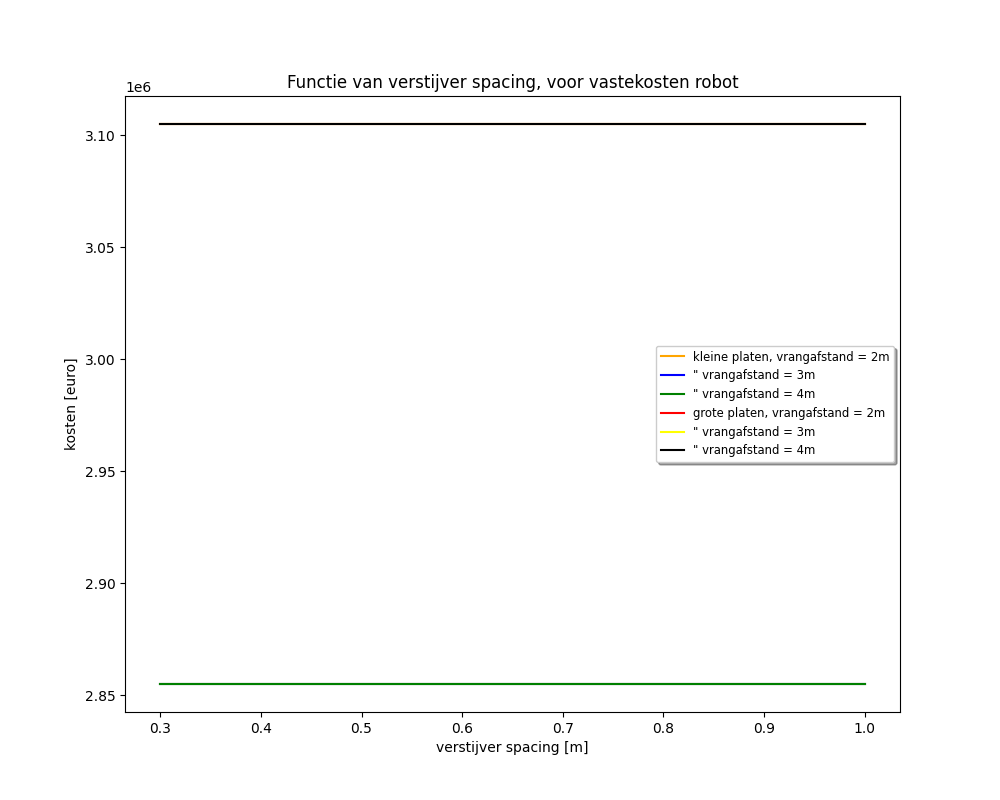
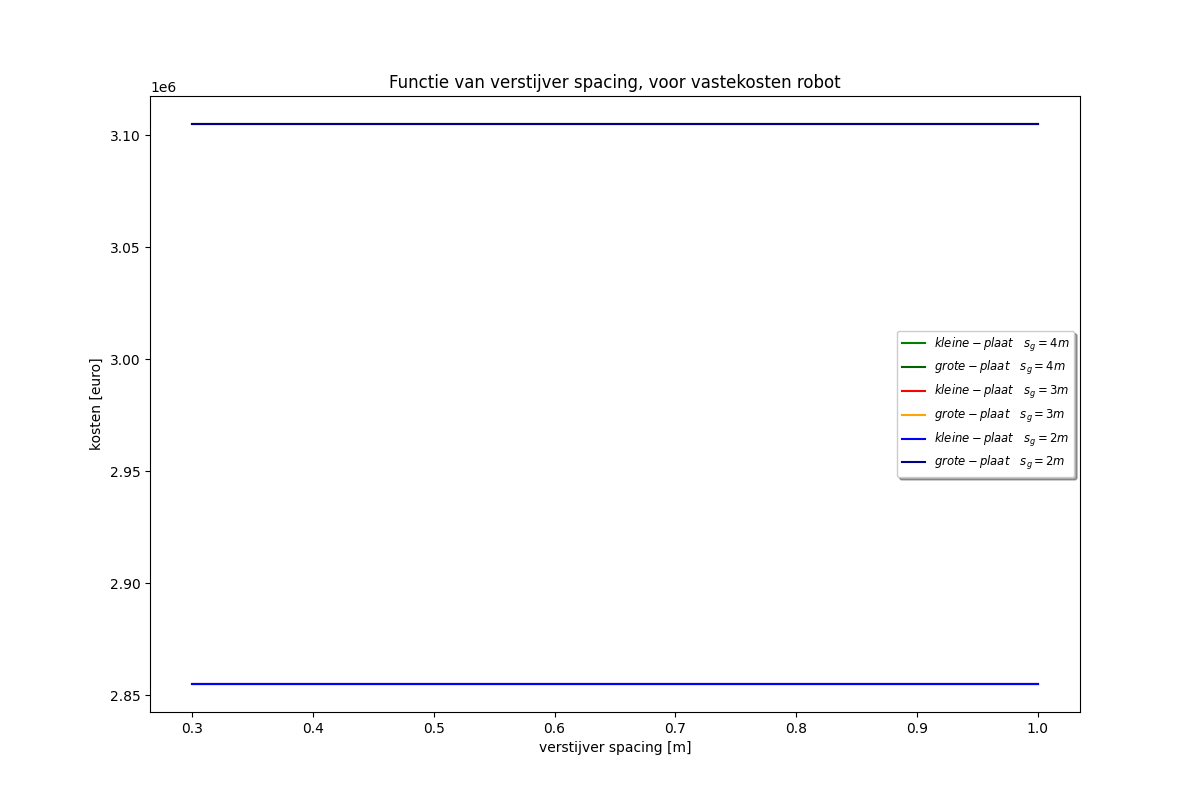
bam

diff --git a/construeren/plaatproductie/herkansing.py b/construeren/plaatproductie/herkansing.py
@@ -2,18 +2,18 @@ import matplotlib.pyplot as plt
 import numpy as np
 import math as m
 
-ss = np.linspace(0.3,1.0,num=500)
+ss = np.linspace(0.3,1.0,701)
 groepsnummer = 2
 station  = 5
 uren = 8
-A_bulb = 0.001780
 n_perstation= 3 #aantal pesonen  
 T = 8
 Ks = 1.2
 rho = 1025
 g = 9.81
 p = T *g *rho
-sigma_y = 355E6
+rho_plaat = 7800
+sigma_y = 305E6
 tp_form = ss*np.sqrt((p*Ks)/(2*sigma_y))
 tp = np.zeros(len(tp_form))
 
@@ -29,19 +29,27 @@ Bp = 12
 bp = 3
 Lp= 12
 A= 144
-hvrang = 1.25
-hspant = 0.16
 capaciteit = 22500 + 4/3* 17280
+tws = 0.005
+twg = 0.005
 
 
 class totaal():
 
     def klein_hand(sg):
+        hspant = (6*0.5/2+300.5/2)*((p*ss*sg*2*Ks)/(12*sigma_y*tws))**0.5 /1000
+
+        Mb = p*sg*bp**2/12
+        Fs = p*sg*bp/2
+
+
+        hvrang = np.sqrt(3/2)*np.sqrt(Mb * 1.2/(sigma_y*twg))
+        A_bulb = 0.40824829 * np.sqrt(Mb*twg*1.2/(sigma_y))
         nzaathout = 4
         aantal_jaar = capaciteit/A 
         nplaat = Bp/bp
         nlas = nplaat -1
-        nspant = Bp/ss-nzaathout -1
+        nspant = np.int64(Bp/ss-nzaathout -1)
         nvrang = Lp/sg
         nkruising = nvrang*(nspant+nzaathout)
         Llas_plaat = nlas*Lp     
@@ -51,9 +59,23 @@ class totaal():
         Llas_vrang_verti = hvrang*nkruising*4 +nspant*hspant*2
         Llas = Llas_plaat + Llas_spant + Llas_vrang_hori + Llas_zaathout + Llas_vrang_verti
 
-        materiaal = 35521200*tp + 3415500/sg + 355212000*A_bulb/ss-118404000*A_bulb+1138500+3900*tp*Llas
+        m_plaat = Lp * Bp * tp*rho_plaat 
+        m_z = nzaathout*Lp*75
+        m_s = nspant*Lp*A_bulb*rho_plaat
+        m_g = nvrang*Bp*75
+        m_totaal = m_plaat+m_z+m_s+m_g
+        materiaal = aantal_jaar*m_totaal
+        
+        x = nplaat-1 + 2
+        y = Llas_plaat/14400
+        z1 = (Llas_vrang_verti/1.2 +(Llas_vrang_hori+Llas_zaathout+Llas_spant)/2)
+        z2 = ((7.8*5**2)/2000)
+        z = 1/0.35*(z1*z2)
+        x1 = (nspant)
+        y1 = 4*(nvrang+nzaathout)
 
-        urenpplaat = nplaat + 2 + 1/0.35*(Llas_plaat/15 +(Llas_vrang_verti/1.2 +(Llas_vrang_hori+Llas_zaathout+Llas_spant)/2)*(7.8*tpmm**2/2000) )+0.5*(nspant)+4*(nvrang+nzaathout)
+
+        urenpplaat = x + y + z +x1+ y1
         personeel = aantal_jaar*50* urenpplaat
 
         nplek = np.int32((urenpplaat*aantal_jaar)/2000)
@@ -65,6 +87,14 @@ class totaal():
         return totaal, materiaal, personeel, vastekosten
 
     def groot_hand(sg):
+        hspant = (6*0.5/2+300.5/2)*((p*ss*sg*2*Ks)/(12*sigma_y*tws))**0.5 /1000
+
+        Mb = p*sg*bp**2/12
+        Fs = p*sg*bp/2
+
+
+        hvrang = np.sqrt(3/2)*np.sqrt(Mb * 1.2/(sigma_y*twg))
+        A_bulb = 0.40824829 * np.sqrt(Mb*twg*1.2/(sigma_y))
         nzaathout = 8
         aantal_jaar = capaciteit/(2*A) 
         nplaat = 2*Bp/bp
@@ -79,9 +109,14 @@ class totaal():
         Llas_vrang_verti = hvrang*nkruising*4 +nspant*hspant*2
         Llas = Llas_plaat + Llas_spant + Llas_vrang_hori + Llas_zaathout + Llas_vrang_verti
 
-        materiaal = 35521200*tp + 3415500/sg + 355212000*A_bulb/ss-118404000*A_bulb+1138500+3900*tp*Llas
+        m_plaat = 2*Lp * Bp * tp*rho_plaat 
+        m_z = nzaathout*2*Lp*75
+        m_s = nspant*2*Lp*A_bulb*rho_plaat
+        m_g = nvrang*Bp*75
+        m_totaal = m_plaat+m_z+m_s+m_g
+        materiaal = aantal_jaar*m_totaal
 
-        urenpplaat = nplaat + 2 + 1/0.35*(Llas_plaat/15 +(Llas_vrang_verti/1.2 +(Llas_vrang_hori+Llas_zaathout+Llas_spant)/2)*(7.8*tpmm**2/2000) )+0.5*(nspant)+8*(nvrang+nzaathout)
+        urenpplaat = nplaat-1 + 2 + Llas_plaat/14400 + 1/0.35*((Llas_vrang_verti/1.2 +(Llas_vrang_hori+Llas_zaathout+Llas_spant)/2)*(7.8*5**2/2000) )+(nspant)+8*(nvrang+nzaathout)
 
         personeel = aantal_jaar*50*urenpplaat
 
@@ -94,6 +129,14 @@ class totaal():
         return totaal, materiaal, personeel, vastekosten
 
     def klein_robot(sg):
+        hspant = (6*0.5/2+300.5/2)*((p*ss*sg*2*Ks)/(12*sigma_y*tws))**0.5
+
+        Mb = p*sg*bp**2/12
+        Fs = p*sg*bp/2
+
+
+        hvrang = np.sqrt(3/2)*np.sqrt(Mb * 1.2/(sigma_y*twg))
+        A_bulb = 0.40824829 * np.sqrt(Mb*twg*1.2/(sigma_y))
         nzaathout = 4
         aantal_jaar = capaciteit/A 
         nplaat = Bp/bp
@@ -107,17 +150,30 @@ class totaal():
         Llas_zaathout = nzaathout*Lp*2   
         Llas_vrang_verti = hvrang*nkruising*4 +nspant*hspant*2
         Llas = Llas_plaat + Llas_spant + Llas_vrang_hori + Llas_zaathout + Llas_vrang_verti
+        
+        m_plaat = Lp * Bp * tp*rho_plaat 
+        m_z = nzaathout*Lp*75
+        m_s = nspant*Lp*A_bulb*rho_plaat
+        m_g = nvrang*Bp*75
+        m_totaal = m_plaat+m_z+m_s+m_g
+        materiaal = aantal_jaar*m_totaal
 
-        materiaal = 35521200*tp + 3415500/sg + 355212000*A_bulb/ss-118404000*A_bulb+1138500+3900*tp*Llas
-
-        urenpplaat = 1/0.6*(((Llas_zaathout/2+Llas_vrang_verti/1.2+Llas_vrang_hori/2)*7.8*tpmm**2)/4000) +2*(nvrang+nzaathout)
-        personeel = aantal_jaar*90*3/5*urenpplaat
+        urenpplaat = 5*((Llas_vrang_verti/1.2 +(Llas_vrang_hori+Llas_zaathout+Llas_spant)/2)*(7.8*5**2/2000) )/4 +2*(nvrang+nzaathout)
+        personeel = aantal_jaar*90*urenpplaat
         loods = 1500
-        vastekosten = 70*loods +275000*10
+        vastekosten = 70*loods +275000*10*ss/ss
         totaal = materiaal + personeel + vastekosten 
         return totaal, materiaal, personeel, vastekosten
 
     def groot_robot(sg):
+        hspant = (6*0.5/2+300.5/2)*((p*ss*sg*2*Ks)/(12*sigma_y*tws))**0.5
+
+        Mb = p*sg*bp**2/12
+        Fs = p*sg*bp/2
+
+
+        hvrang = np.sqrt(3/2)*np.sqrt(Mb * 1.2/(sigma_y*twg))
+        A_bulb = 0.40824829 * np.sqrt(Mb*twg*1.2/(sigma_y))
         nzaathout = 8
         aantal_jaar = capaciteit/(2*A) 
         nplaat = 2*Bp/bp
@@ -132,12 +188,17 @@ class totaal():
         Llas_vrang_verti = hvrang*nkruising*4 +nspant*hspant*2
         Llas = Llas_plaat + Llas_spant + Llas_vrang_hori + Llas_zaathout + Llas_vrang_verti
 
-        materiaal = 35521200*tp + 3415500/sg + 355212000*A_bulb/ss-118404000*A_bulb+1138500+3900*tp*Llas
-
-        urenpplaat = 1/0.6*(((Llas_zaathout/2+Llas_vrang_verti/1.2+Llas_vrang_hori/2)*7.8*tpmm**2)/4000) +4*(nvrang+nzaathout)
-        personeel = aantal_jaar*90*3/5*urenpplaat
+        m_plaat = 2*Lp * Bp * tp*rho_plaat 
+        m_z = nzaathout*2*Lp*75
+        m_s = nspant*2*Lp*A_bulb*rho_plaat
+        m_g = nvrang*Bp*75
+        m_totaal = m_plaat+m_z+m_s+m_g
+        materiaal = aantal_jaar*m_totaal
+        
+        urenpplaat = 5*((Llas_vrang_verti/1.2 +(Llas_vrang_hori+Llas_zaathout+Llas_spant)/2)*(7.8*5**2/2000) )/4 +4*(nvrang+nzaathout)
+        personeel = aantal_jaar*90*urenpplaat
         loods = 1500
-        vastekosten = 70*loods +300000*10
+        vastekosten = 70*loods +300000*10*ss/ss
 
         totaal = materiaal + personeel + vastekosten 
         return totaal, materiaal, personeel, vastekosten
@@ -152,6 +213,17 @@ g_h_3_tot, g_h_3_mat,g_h_3_per,g_h_3_vast = totaal.groot_hand(3)
 k_h_2_tot, k_h_2_mat,k_h_2_per,k_h_2_vast = totaal.klein_hand(2)
 g_h_2_tot, g_h_2_mat,g_h_2_per,g_h_2_vast = totaal.groot_hand(2)
 
+k_r_4_tot, k_r_4_mat,k_r_4_per,k_r_4_vast = totaal.klein_robot(4)
+g_r_4_tot, g_r_4_mat,g_r_4_per,g_r_4_vast = totaal.groot_robot(4)
+
+k_r_3_tot, k_r_3_mat,k_r_3_per,k_r_3_vast = totaal.klein_robot(3)
+g_r_3_tot, g_r_3_mat,g_r_3_per,g_r_3_vast = totaal.groot_robot(3)
+
+k_r_2_tot, k_r_2_mat,k_r_2_per,k_r_2_vast = totaal.klein_robot(2)
+g_r_2_tot, g_r_2_mat,g_r_2_per,g_r_2_vast = totaal.groot_robot(2)
+
+plt.ticklabel_format(style='sci', axis='y', scilimits=(6,6))
+
 def plot_totaal(titel):
     figure = plt.figure(figsize=(12,8))
     plt.plot(ss,k_h_4_tot, c="green"     ,label="$kleine-plaat \quad s_g = 4m$")
@@ -162,6 +234,8 @@ def plot_totaal(titel):
     plt.plot(ss,g_h_2_tot, c="darkblue"     ,label="$grote-plaat \quad s_g = 2m$")
     plt.xlabel("verstijver spacing [m]")
     plt.ylabel("kosten [euro]")
+#    plt.ylim(0,20E6)
+    plt.ticklabel_format(style='sci', axis='y', scilimits=(6,6))
     titeltje= "Functie van verstijver spacing, voor "+titel
     plt.title(titeltje)
     plt.legend(loc = "best", shadow = True, fontsize="small")
@@ -177,6 +251,8 @@ def plot_vastekosten(titel):
     plt.plot(ss,g_h_2_vast, c="darkblue"     ,label="$grote-plaat \quad s_g = 2m$")
     plt.xlabel("verstijver spacing [m]")
     plt.ylabel("kosten [euro]")
+#    plt.ylim(0,20E6)
+    plt.ticklabel_format(style='sci', axis='y', scilimits=(6,6))
     titeltje= "Functie van verstijver spacing, voor "+titel
     plt.title(titeltje)
     plt.legend(loc = "best", shadow = True, fontsize="small")
@@ -192,6 +268,8 @@ def plot_personeel(titel):
     plt.plot(ss,g_h_2_per, c="darkblue"     ,label="$grote-plaat \quad s_g = 2m$")
     plt.xlabel("verstijver spacing [m]")
     plt.ylabel("kosten [euro]")
+#    plt.ylim(0,20E6)
+    plt.ticklabel_format(style='sci', axis='y', scilimits=(6,6))
     titeltje= "Functie van verstijver spacing, voor "+titel
     plt.title(titeltje)
     plt.legend(loc = "best", shadow = True, fontsize="small")
@@ -207,6 +285,59 @@ def plot_materiaal(titel):
     plt.plot(ss,g_h_2_mat, c="darkblue"     ,label="$grote-plaat \quad s_g = 2m$")
     plt.xlabel("verstijver spacing [m]")
     plt.ylabel("kosten [euro]")
+#    plt.ylim(0,20E6)
+    plt.ticklabel_format(style='sci', axis='y', scilimits=(6,6))
+    titeltje= "Functie van verstijver spacing, voor "+titel
+    plt.title(titeltje)
+    plt.legend(loc = "best", shadow = True, fontsize="small")
+    figure.savefig("./construeren/plaatproductie/"+titel+".png")
+
+def plot_totaal_robot(titel):
+    figure = plt.figure(figsize=(12,8))
+    plt.plot(ss,k_r_4_tot, c="green"     ,label="$kleine-plaat \quad s_g = 4m$")
+    plt.plot(ss,g_r_4_tot, c="darkgreen"     ,label="$grote-plaat \quad s_g = 4m$")
+    plt.plot(ss,k_r_3_tot, c="red"     ,label="$kleine-plaat \quad s_g = 3m$")
+    plt.plot(ss,g_r_3_tot, c="orange"     ,label="$grote-plaat \quad s_g = 3m$")
+    plt.plot(ss,k_r_2_tot, c="blue"     ,label="$kleine-plaat \quad s_g = 2m$")
+    plt.plot(ss,g_r_2_tot, c="darkblue"     ,label="$grote-plaat \quad s_g = 2m$")
+    plt.xlabel("verstijver spacing [m]")
+    plt.ylabel("kosten [euro]")
+#    plt.ylim(0,20E6)
+    plt.ticklabel_format(style='sci', axis='y', scilimits=(6,6))
+    titeltje= "Functie van verstijver spacing, voor "+titel
+    plt.title(titeltje)
+    plt.legend(loc = "best", shadow = True, fontsize="small")
+    figure.savefig("./construeren/plaatproductie/"+titel+".png")
+
+def plot_vastekosten_robot(titel):
+    figure = plt.figure(figsize=(12,8))
+    plt.plot(ss,k_r_4_vast, c="green"     ,label="$kleine-plaat \quad s_g = 4m$")
+    plt.plot(ss,g_r_4_vast, c="darkgreen"     ,label="$grote-plaat \quad s_g = 4m$")
+    plt.plot(ss,k_r_3_vast, c="red"     ,label="$kleine-plaat \quad s_g = 3m$")
+    plt.plot(ss,g_r_3_vast, c="orange"     ,label="$grote-plaat \quad s_g = 3m$")
+    plt.plot(ss,k_r_2_vast, c="blue"     ,label="$kleine-plaat \quad s_g = 2m$")
+    plt.plot(ss,g_r_2_vast, c="darkblue"     ,label="$grote-plaat \quad s_g = 2m$")
+    plt.xlabel("verstijver spacing [m]")
+    plt.ylabel("kosten [euro]")
+#    plt.ylim(0,20E6)
+    plt.ticklabel_format(style='sci', axis='y', scilimits=(6,6))
+    titeltje= "Functie van verstijver spacing, voor "+titel
+    plt.title(titeltje)
+    plt.legend(loc = "best", shadow = True, fontsize="small")
+    figure.savefig("./construeren/plaatproductie/"+titel+".png")
+
+def plot_personeel_robot(titel):
+    figure = plt.figure(figsize=(12,8))
+    plt.plot(ss,k_r_4_per, c="green"     ,label="$kleine-plaat \quad s_g = 4m$")
+    plt.plot(ss,g_r_4_per, c="darkgreen"     ,label="$grote-plaat \quad s_g = 4m$")
+    plt.plot(ss,k_r_3_per, c="red"     ,label="$kleine-plaat \quad s_g = 3m$")
+    plt.plot(ss,g_r_3_per, c="orange"     ,label="$grote-plaat \quad s_g = 3m$")
+    plt.plot(ss,k_r_2_per, c="blue"     ,label="$kleine-plaat \quad s_g = 2m$")
+    plt.plot(ss,g_r_2_per, c="darkblue"     ,label="$grote-plaat \quad s_g = 2m$")
+    plt.xlabel("verstijver spacing [m]")
+    plt.ylabel("kosten [euro]")
+#    plt.ylim(0,20E6)
+    plt.ticklabel_format(style='sci', axis='y', scilimits=(6,6))
     titeltje= "Functie van verstijver spacing, voor "+titel
     plt.title(titeltje)
     plt.legend(loc = "best", shadow = True, fontsize="small")
@@ -220,3 +351,9 @@ plot_totaal("totale kosten hand")
 plot_personeel("personeelskosten hand")
 
 plot_materiaal("materiaal kosten")
+
+plot_vastekosten_robot("vastekosten robot")
+
+plot_totaal_robot("totale kosten robot")
+
+plot_personeel_robot("personeelskosten robot")
